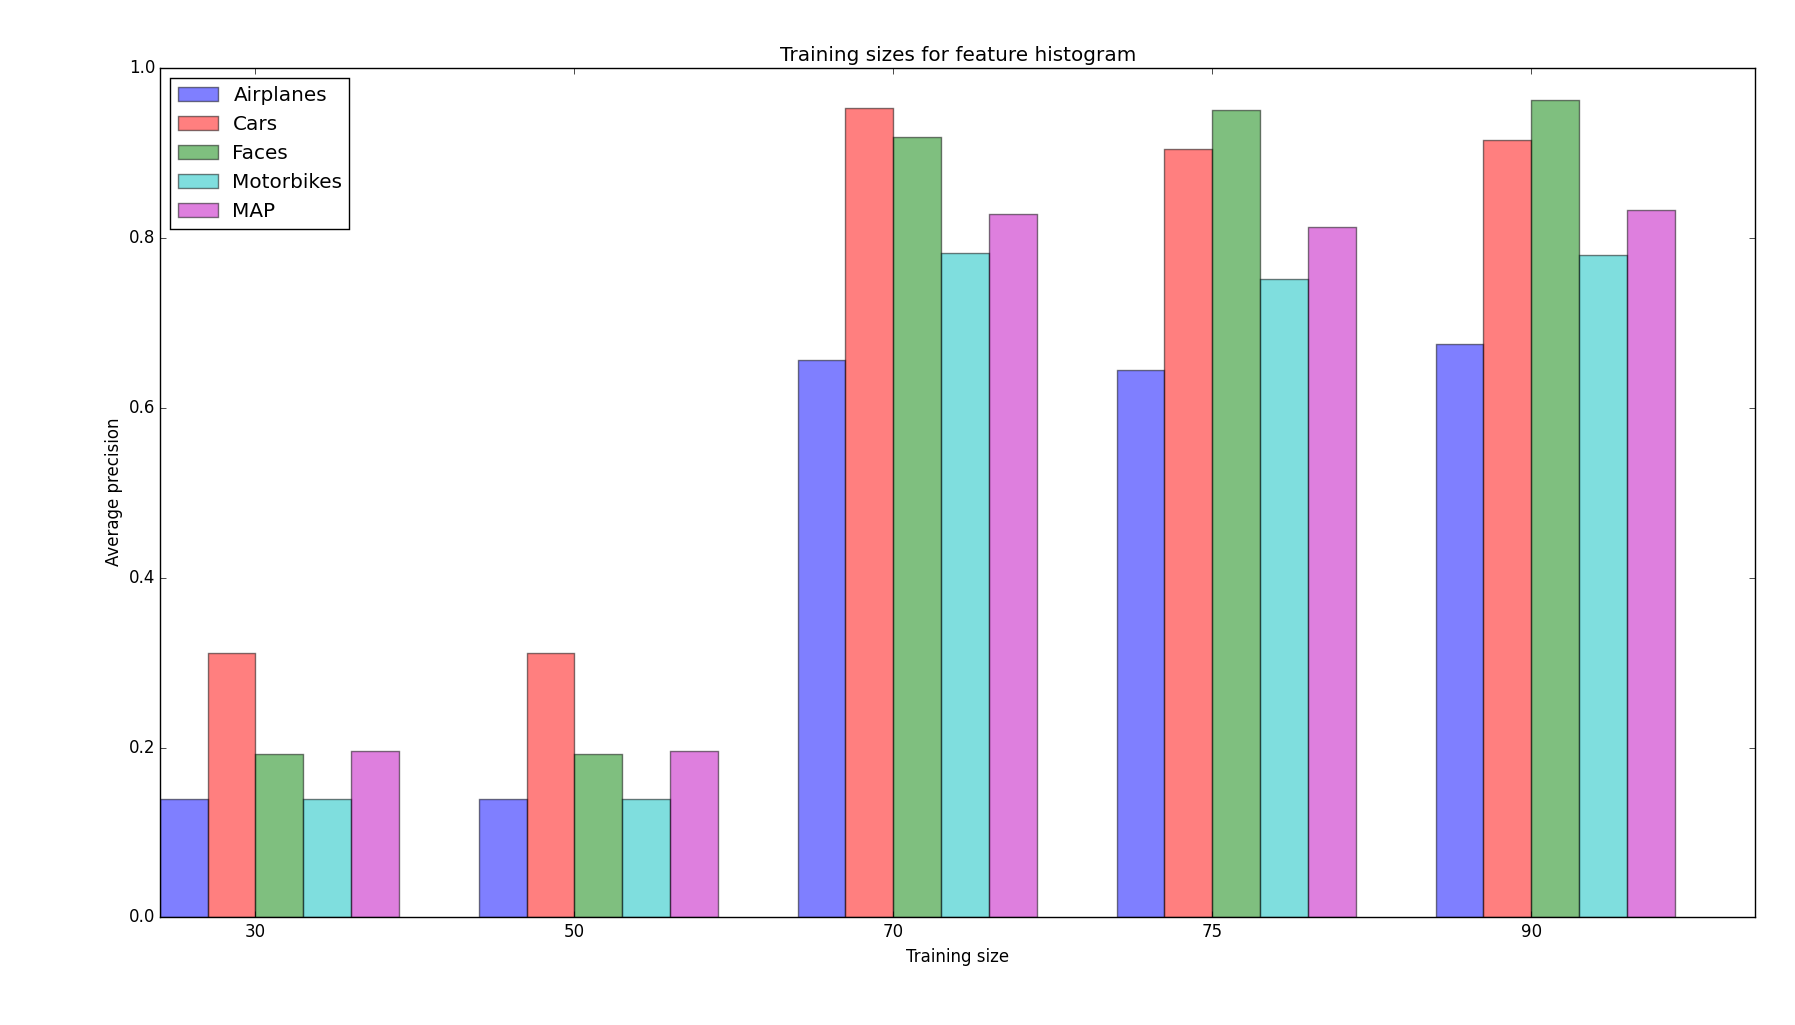
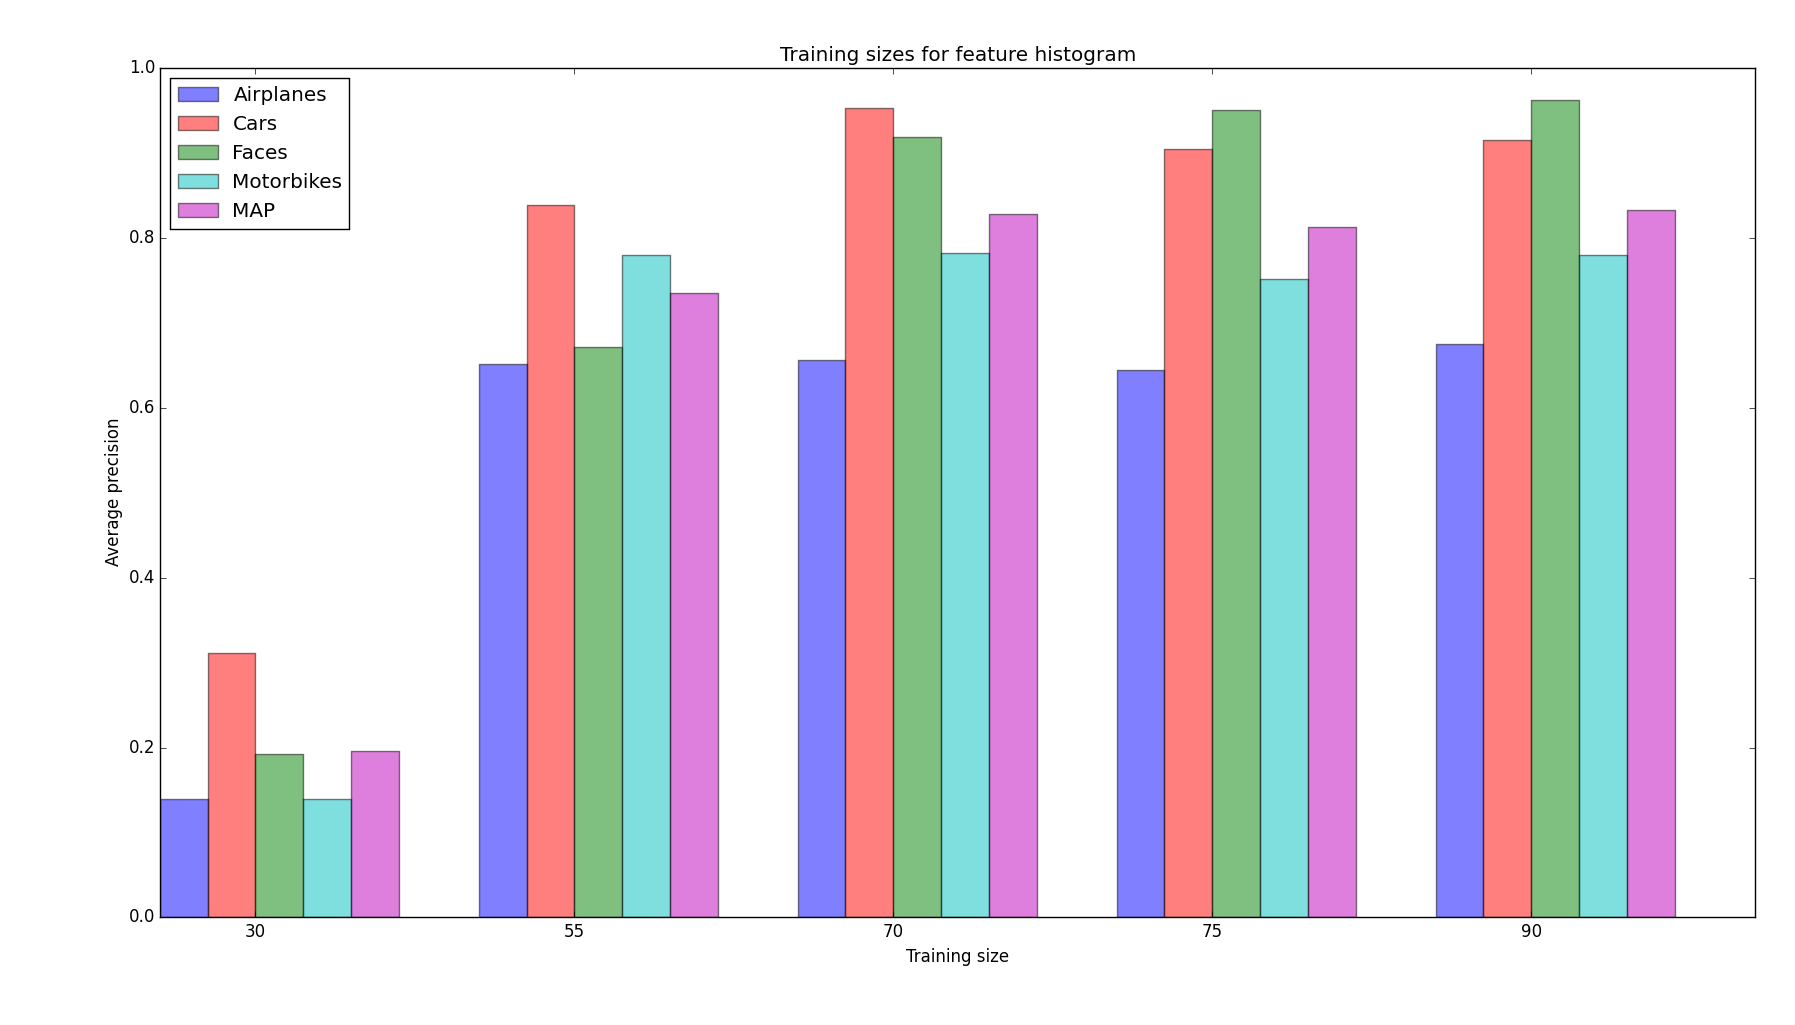
New plot

Changed region(s): [[0.2496, 0.1873, 0.4056, 0.7805]]

diff --git a/plotting.py b/plotting.py
@@ -9,11 +9,11 @@ def feature_histograms():
 
 	n_groups = 5
 
-	means_airplanes = (0.1394, 0.1394, 0.6563, 0.6447, 0.6749)
-	means_cars = (0.3118, 0.3118, 0.9534, 0.9053, 0.9157)
-	means_faces = (0.1924, 0.1924, 0.9191, 0.9510, 0.9631)
-	means_motorbikes = (0.1394, 0.1394, 0.7830, 0.7516, 0.7798)
-	average_means = (0.1958, 0.1958, 0.8280, 0.8132, 0.8334)
+	means_airplanes = (0.1394, 0.6516, 0.6563, 0.6447, 0.6749)
+	means_cars = (0.3118, 0.8392, 0.9534, 0.9053, 0.9157)
+	means_faces = (0.1924, 0.6716, 0.9191, 0.9510, 0.9631)
+	means_motorbikes = (0.1394, 0.7797, 0.7830, 0.7516, 0.7798)
+	average_means = (0.1958, 0.7355, 0.8280, 0.8132, 0.8334)
 
 	fig, ax = plt.subplots()
 
@@ -51,7 +51,7 @@ def feature_histograms():
 	plt.xlabel('Training size')
 	plt.ylabel('Average precision')
 	plt.title('Training sizes for feature histogram')
-	plt.xticks(index + bar_width*2, ('30', '50', '70', '75', '90'))
+	plt.xticks(index + bar_width*2, ('30', '55', '70', '75', '90'))
 	plt.legend(loc=2)
 
 	plt.tight_layout()
@@ -102,9 +102,9 @@ def cluster_sizes():
 	                 color='m',
 	                 label='MAP')
 
-	plt.xlabel('Cluster size')
+	plt.xlabel('Codebook size')
 	plt.ylabel('Average precision')
-	plt.title('Cluster sizes for feature histogram')
+	plt.title('Codebook sizes for feature histogram')
 	plt.xticks(index + bar_width*2, ('100', '200', '400', '800', '1600', '2000', '4000'))
 	plt.legend()
 
@@ -331,4 +331,4 @@ def window_sizes():
 	plt.tight_layout()
 	plt.show()	
 
-window_sizes()
+feature_histograms()
